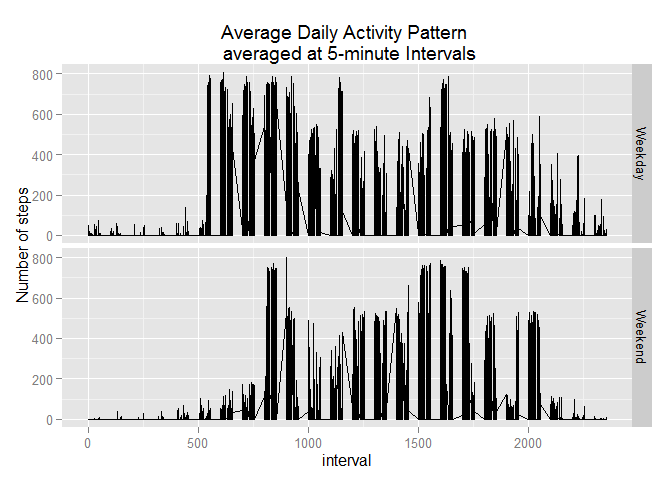
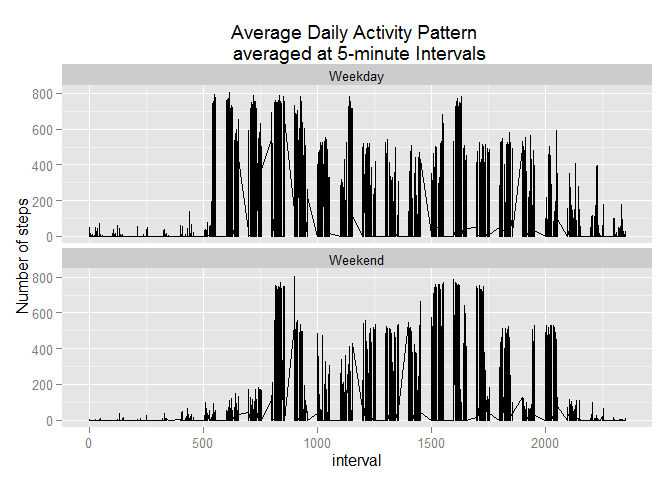
20150614:1130
Reviewed / tidy
- fixed last plot

diff --git a/PA1_template.html b/PA1_template.html
@@ -66,13 +66,27 @@ img {
 
 <div id="loading-and-preprocessing-the-data" class="section level2">
 <h2>Loading and preprocessing the data</h2>
-<p>The dataset is stored in a comma-separated-value (CSV) file and there are a total of <strong>17,568</strong> observations in this dataset</p>
-<p>Assuming that the data (activity.zip) is in the current working directory, the following will code will:</p>
+<p>
+The dataset is a comma-separated-value (CSV) file with a total of <strong>17,568</strong> observations
+</p>
+<p>
+<ol style="list-style-type: decimal">
+<li>To load the data
+</p>
 <ul>
-<li>unzip the data file</li>
-<li>read the data</li>
-</ul>
-<p>The summary of the data is as follows:</p>
+<li>
+unzip the data file (activity.zip)
+</li>
+<li>
+read the data using read.csv
+</li>
+</ul></li>
+</ol>
+<p>
+<ol start="2" style="list-style-type: decimal">
+<li>The results of the loading process is as follows:
+</p></li>
+</ol>
 <pre class="r"><code>library(dplyr)</code></pre>
 <pre><code>## Warning: package 'dplyr' was built under R version 3.1.3</code></pre>
 <pre><code>## 
@@ -99,6 +113,7 @@ library(ggplot2)
 setwd(&quot;~/Coursera/RepData_PeerAssessment1&quot;)
 unzip(&quot;activity.zip&quot;)
 data &lt;- read.csv(&quot;activity.csv&quot;)
+
 str(data)</code></pre>
 <pre><code>## 'data.frame':    17568 obs. of  3 variables:
 ##  $ steps   : int  NA NA NA NA NA NA NA NA NA NA ...
@@ -124,10 +139,18 @@ qplot(total_steps_day$tot_steps,
       main = &quot;Total Number of Steps Taken each day&quot;,
       xlab = &quot;Total Steps per day&quot;)</code></pre>
[1 lines of base64/hex data omitted]
-<pre class="r"><code>## summary(total_steps_day) #check mean from summary</code></pre>
+<pre class="r"><code>summary(total_steps_day) #check mean from summary</code></pre>
+<pre><code>##          date      tot_steps    
+##  2012-10-01: 1   Min.   :    0  
+##  2012-10-02: 1   1st Qu.: 6778  
+##  2012-10-03: 1   Median :10395  
+##  2012-10-04: 1   Mean   : 9354  
+##  2012-10-05: 1   3rd Qu.:12811  
+##  2012-10-06: 1   Max.   :21194  
+##  (Other)   :55</code></pre>
 <p>
 <ol style="list-style-type: decimal">
-<li>Total number of steps taken per day
+<li>Total number of steps taken per day (calculation):
 <ul>
 <li>
 Mean: <strong>9,354.23</strong>
@@ -153,12 +176,12 @@ max_interval &lt;- subset(avg_steps_interval, avgsteps == max(avgsteps))
 ##  Time series plot (i.e. type = &quot;l&quot;) of the 5-minute interval (x-axis) 
 ##  and the average number of steps taken, averaged across all days (y-axis)
 with (avg_steps_interval, 
-      plot(interval, avgsteps, 
-             type=&quot;l&quot;,
-             main = &quot;Average Daily Activity Pattern \n averaged at 5-minute Intervals across all days&quot;,                             
-             xlab = &quot;Interval&quot;,
-             ylab = &quot;Number of steps&quot;))</code></pre>
[1 lines of base64/hex data omitted]
+    plot(interval, avgsteps, 
+           type=&quot;l&quot;,
+           main = &quot;Average Daily Activity Pattern \n averaged at 5-minute Intervals across all days&quot;,                       
+           xlab = &quot;Interval&quot;,
+           ylab = &quot;Average number of steps&quot;))</code></pre>
[1 lines of base64/hex data omitted]
 <p>
 <ol start="2" style="list-style-type: decimal">
 <li>Which 5-minute interval, on average across all the days in the dataset, contains the maximum number of steps? <strong>835</strong>
@@ -169,13 +192,18 @@ with (avg_steps_interval,
 </div>
 <div id="imputing-missing-values" class="section level2">
 <h2>Imputing missing values</h2>
-<pre class="r"><code>num_missing_vals &lt;- sum(is.na(data$steps))
+<div id="strategy-replace-nas-with-mean-for-that-5-minute-interval" class="section level4">
+<h4>Strategy: <em>replace NAs with mean for that 5-minute interval</em></h4>
+<pre class="r"><code>## Calculate number of missing values
+num_missing_vals &lt;- sum(is.na(data$steps))
 
-## Dataset: equal to the original dataset but with the missing data filled in.
-## Strategy: replace NAs with mean for that 5-minute interval
-
+## Dataset: Original dataset merged with data from 5-minute interval dataset.
 adj_data &lt;- data.table(merge(data, avg_steps_interval, by=&quot;interval&quot;))
+
+## Make a copy step data for adjustment
 adj_data$adj_steps &lt;- adj_data$steps
+
+## Replace NAs (step) with 5-minute interval average
 adj_data[is.na(adj_data$adj_steps), adj_steps := as.integer(avgsteps)]</code></pre>
 <pre><code>##        interval steps       date avgsteps adj_steps
 ##     1:        0    NA 2012-10-01 1.716981         1
@@ -189,7 +217,8 @@ adj_data[is.na(adj_data$adj_steps), adj_steps := as.integer(avgsteps)]</code></p
 ## 17566:     2355     0 2012-11-03 1.075472         0
 ## 17567:     2355    NA 2012-10-08 1.075472         1
 ## 17568:     2355    NA 2012-11-30 1.075472         1</code></pre>
-<pre class="r"><code>total_steps_day &lt;- summarize(group_by(adj_data, date), 
+<pre class="r"><code>## Calculate total steps taken per day adjusted and with NA
+total_steps_day &lt;- summarize(group_by(adj_data, date), 
                              tot_steps_adj = sum(adj_steps), 
                              tot_steps_na = sum(steps, na.rm=TRUE))
 
@@ -294,6 +323,7 @@ the mean and median scores are higher
 </tbody>
 </table>
 </div>
+</div>
 <div id="are-there-differences-in-activity-patterns-between-weekdays-and-weekends" class="section level2">
 <h2>Are there differences in activity patterns between weekdays and weekends?</h2>
 <pre class="r"><code>## new factor variable in the dataset with two levels -- &quot;weekday&quot; and &quot;weekend&quot; 
@@ -313,8 +343,8 @@ adj_data[as.character(adj_data$day_wk) %in% c(&quot;5&quot;:&quot;6&quot;), wk_e
 ## 17566:     2355     0 2012-11-03 1.075472         0      6 Weekend
 ## 17567:     2355    NA 2012-10-08 1.075472         1      1 Weekday
 ## 17568:     2355    NA 2012-11-30 1.075472         1      5 Weekend</code></pre>
-<pre class="r"><code>ggplot(adj_data, aes(interval, adj_steps)) + geom_line() + facet_grid(wk_end ~ .) + labs(title = &quot;Average Daily Activity Pattern \n averaged at 5-minute Intervals&quot;) + ylab(&quot;Number of steps&quot;)</code></pre>
[1 lines of base64/hex data omitted]
+<pre class="r"><code>ggplot(adj_data, aes(interval, adj_steps)) + geom_line() + facet_wrap(~wk_end, nrow=2) + labs(title = &quot;Average Daily Activity Pattern \n averaged at 5-minute Intervals&quot;) + ylab(&quot;Number of steps&quot;) + theme(legend.position = &quot;top&quot;)</code></pre>
[1 lines of base64/hex data omitted]
 </div>
 
 

diff --git a/PA1_template.md b/PA1_template.md
@@ -2,14 +2,15 @@
 
 
 ## Loading and preprocessing the data
-The dataset is stored in a comma-separated-value (CSV) file and there are a total of **17,568** observations in this dataset
+<p> The dataset is a comma-separated-value (CSV) file with a total of **17,568** observations</p>
 
-Assuming that the data (activity.zip) is in the current working directory, the following will code will:
+<p> 1. To load the data </p>
+<ul>
+  <li> unzip the data file (activity.zip) </li>
+  <li> read the data using read.csv </li>
+</ul>
 
-- unzip the data file
-- read the data 
-
-The summary of the data is as follows: 
+<p> 2. The results of the loading process is as follows: </p> 
 
 
 ```r
@@ -57,6 +58,7 @@ library(ggplot2)
 setwd("~/Coursera/RepData_PeerAssessment1")
 unzip("activity.zip")
 data <- read.csv("activity.csv")
+
 str(data)
 ```
 
@@ -66,6 +68,7 @@ str(data)
 ##  $ date    : Factor w/ 61 levels "2012-10-01","2012-10-02",..: 1 1 1 1 1 1 1 1 1 1 ...
 ##  $ interval: int  0 5 10 15 20 25 30 35 40 45 ...
 ```
+
 <hr></hr>
 
 ## What is mean total number of steps taken per day?
@@ -91,10 +94,21 @@ qplot(total_steps_day$tot_steps,
 ![](PA1_template_files/figure-html/Total_Steps_Day-1.png) 
 
 ```r
-## summary(total_steps_day) #check mean from summary
+summary(total_steps_day) #check mean from summary
 ```
 
-<p> 1. Total number of steps taken per day
+```
+##          date      tot_steps    
+##  2012-10-01: 1   Min.   :    0  
+##  2012-10-02: 1   1st Qu.: 6778  
+##  2012-10-03: 1   Median :10395  
+##  2012-10-04: 1   Mean   : 9354  
+##  2012-10-05: 1   3rd Qu.:12811  
+##  2012-10-06: 1   Max.   :21194  
+##  (Other)   :55
+```
+
+<p> 1. Total number of steps taken per day (calculation):
 <ul>
     <li> Mean: **9,354.23** </li>
     <li> Median: **10,395** </li>
@@ -116,11 +130,11 @@ max_interval <- subset(avg_steps_interval, avgsteps == max(avgsteps))
 ##  Time series plot (i.e. type = "l") of the 5-minute interval (x-axis) 
 ##  and the average number of steps taken, averaged across all days (y-axis)
 with (avg_steps_interval, 
-      plot(interval, avgsteps, 
-             type="l",
-             main = "Average Daily Activity Pattern \n averaged at 5-minute Intervals across all days",                             
-             xlab = "Interval",
-             ylab = "Number of steps"))
+    plot(interval, avgsteps, 
+           type="l",
+           main = "Average Daily Activity Pattern \n averaged at 5-minute Intervals across all days",                       
+           xlab = "Interval",
+           ylab = "Average number of steps"))
 ```
 
 ![](PA1_template_files/figure-html/Average_Daily_Activity_Patterns-1.png) 
@@ -131,16 +145,20 @@ with (avg_steps_interval,
 
 
 ## Imputing missing values
+#### Strategy: *replace NAs with mean for that 5-minute interval*
 
 
 ```r
+## Calculate number of missing values
 num_missing_vals <- sum(is.na(data$steps))
 
-## Dataset: equal to the original dataset but with the missing data filled in.
-## Strategy: replace NAs with mean for that 5-minute interval
-
+## Dataset: Original dataset merged with data from 5-minute interval dataset.
 adj_data <- data.table(merge(data, avg_steps_interval, by="interval"))
+
+## Make a copy step data for adjustment
 adj_data$adj_steps <- adj_data$steps
+
+## Replace NAs (step) with 5-minute interval average
 adj_data[is.na(adj_data$adj_steps), adj_steps := as.integer(avgsteps)]
 ```
 
@@ -160,6 +178,7 @@ adj_data[is.na(adj_data$adj_steps), adj_steps := as.integer(avgsteps)]
 ```
 
 ```r
+## Calculate total steps taken per day adjusted and with NA
 total_steps_day <- summarize(group_by(adj_data, date), 
                              tot_steps_adj = sum(adj_steps), 
                              tot_steps_na = sum(steps, na.rm=TRUE))
@@ -243,7 +262,7 @@ adj_data[as.character(adj_data$day_wk) %in% c("5":"6"), wk_end := as.factor("Wee
 ```
 
 ```r
-ggplot(adj_data, aes(interval, adj_steps)) + geom_line() + facet_grid(wk_end ~ .) + labs(title = "Average Daily Activity Pattern \n averaged at 5-minute Intervals") + ylab("Number of steps")
+ggplot(adj_data, aes(interval, adj_steps)) + geom_line() + facet_wrap(~wk_end, nrow=2) + labs(title = "Average Daily Activity Pattern \n averaged at 5-minute Intervals") + ylab("Number of steps") + theme(legend.position = "top")
 ```
 
 ![](PA1_template_files/figure-html/unnamed-chunk-1-1.png) 
